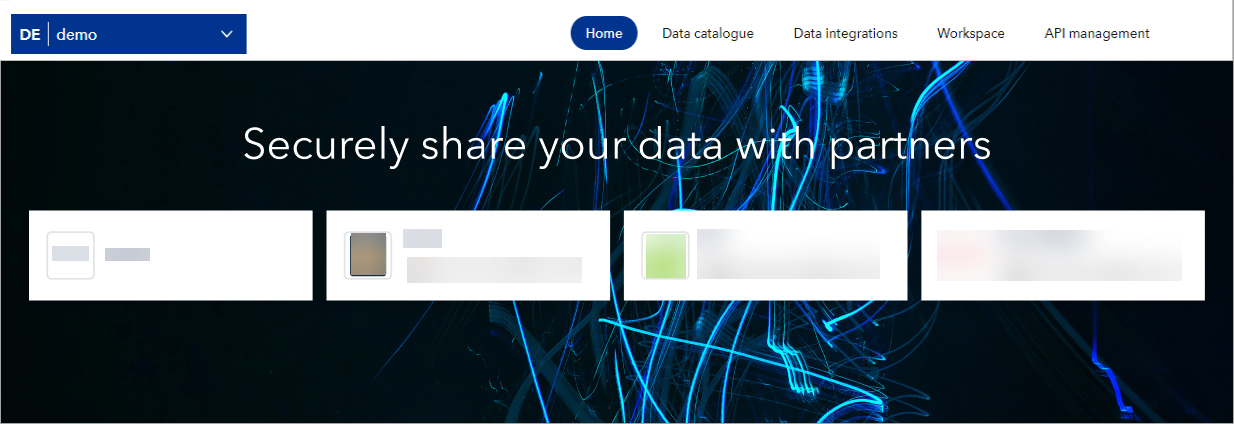
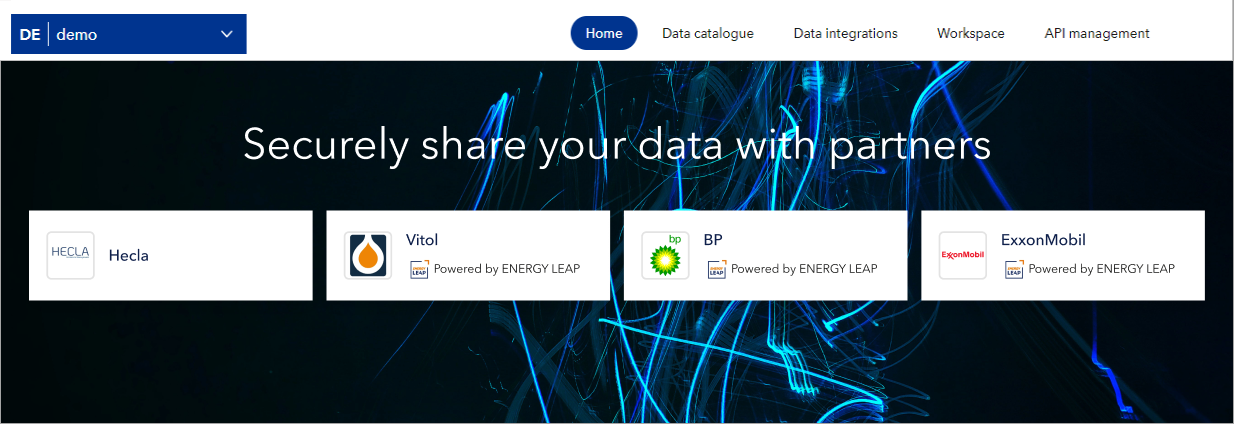
Added DW February releae notes.

diff --git a/sections/dataworkbench/news/releasefeb24.md b/sections/dataworkbench/news/releasefeb24.md
@@ -1,0 +1,60 @@
+---
+author: Veracity
+description: This is the changelog for the February 2024 release of Data Workbench.
+---
+
+# February 2024 release
+
+Read this page to learn what has changed in Veracity Data Workbench with the February 2024 release. This release is focused on Solution Partner, so the changes are related to from whom you get your data and how you can share your data with your trusted partners.
+
+## New features
+This section covers new features.
+
+### See what data integrations you're using
+Now, on your workspace's Home page, below the navigation, you see the data integrations you're using. In other words, you see from whom you are getting your data. You can select the data integration tile to learn more about it.
+
+If you need a data integration configured in your workspace, request it from the Data Workbench team.
+
+Below is an example.
+
+<figure>
+<img src="assets/templatepage.png"/>
+</figure>
+
+US 537349
+
+### See data integration banners
+Now, when a template page is loaded, under the navigation menu, you see a banner for the data integration you are using. You can close the banner if you want to. The banner shows some information about the data integration and may link to its Marketplace page.
+
+US 534252
+
+### Use data integration template
+Now, you can use template pages for data integrations to share data sets more efficiently. To start doing so, contact the Data Workbench team and inform them of your needs so that the team can set up the template page for you.
+
+US 534635
+
+### Info banner on data integration template pages
+Now, when you are on a page of a data integration template, there is an informational banner at the top that explains what a data integration template page is and how you can use it.
+
+US 539487
+
+## Changes in existing features
+This section covers changes in existing features.
+
+### Bulk save and share data sets
+Now, you can save and share data sets in bulk. You see a list of the data sets you're sharing and saving, and you can only share them with your verified contacts (users or workspaces) to avoid accidentally sharing data with people outside of your trust network.
+
+US 529744, US 535142
+
+### Longer data set names
+We have increased the maximum length of a data set name from 64 to 128 characters.
+
+## Exceptions for the Poseidon and SSC templates
+The following changes don't apply to Poseidon and SSC templates:
+* 'See what data integrations you're using' so for these templates, so we don't display the tiles of data integrations that are in use for these templates.
+* There are no verified contacts when you share data sets, and you can share the data sets with any Data Workbench user or workspace.
+
+US 549848
+
+
+
